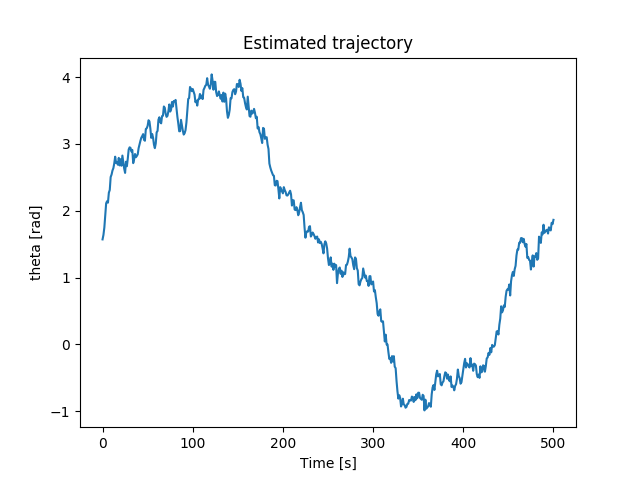
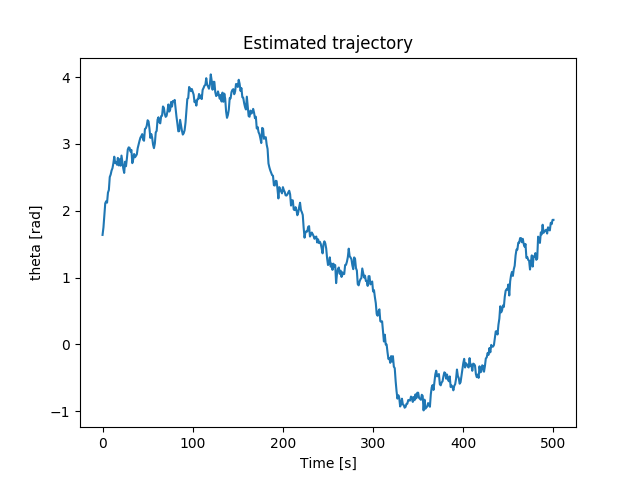
Clean up and plot variances
Clean up the prediction steps, and added plotting of the variances to
see how the filter is doing after measurement updates

diff --git a/course2_state_estimation/week2_assignment/week2_assignment.py b/course2_state_estimation/week2_assignment/week2_assignment.py
@@ -10,6 +10,11 @@ def wraptopi(x):
         x = x + (np.floor(x / (-2 * np.pi)) + 1) * 2 * np.pi
     return x
 
+# lk = landmark x,y
+# rk = range measurements
+# bk = bearing to each landmark
+#
+#
 def measurement_update(lk, rk, bk, P_check, x_check):
     
     # 1. Compute measurement Jacobian
@@ -65,30 +70,33 @@ for k in range(1, len(t)):  # start at 1 because we've set the initial predicito
     # 1. Update state with odometry readings (remember to wrap the angles to [-pi,pi])
     # This is the state vector at the previous step
     x_check = x_est[k - 1].reshape(3, 1)
-    # Propogate the state forward to the current step, first build the motion
-    # model matrix, phi.
-    # x_check[2] is our best estimate of theta, or theta at (k - 1)
-    phi = np.array([
-        [cos(x_check[2]) * delta_t, 0],
-        [sin(x_check[2]) * delta_t, 0],
-        [0, delta_t]])
-    # According to the equations provided we need to use v_k and w_k, NOT
-    # k-1
-    odom = np.array([v[k], om[k]])
-    x_check = x_check + phi @ odom.reshape(2, 1)
-    x_check[2] = wraptopi(x_check[2])
+    # Break out theta before update since its used in several spots
+    theta = x_check[2]
+    sin_theta_delta_t = sin(theta) * delta_t
+    cos_theta_delta_t = cos(theta) * delta_t
+    # Propogate the state forward to the current step
+    x_check[0] += cos_theta_delta_t * v[k]
+    x_check[1] += sin_theta_delta_t * v[k]
+    x_check[2] += delta_t * om[k]
+    #x_check[2] = wraptopi(x_check[2])
     
     # 2. Motion model jacobian with respect to last state
-    F_km = np.zeros([3, 3])
+    F_km = np.array([
+        [1.0, 0.0, -sin_theta_delta_t * v[k]],
+        [0.0, 1.0, cos_theta_delta_t * v[k]],
+        [0.0, 0.0, 1.0]])
 
     # 3. Motion model jacobian with respect to noise
-    L_km = np.zeros([3, 2])
-
+    L_km = np.array([
+        [cos_theta_delta_t, 0.0],
+        [sin_theta_delta_t, 0.0],
+        [0.0, 1.0]])
     # 4. Propagate uncertainty
+    P_check = F_km @ P_check @ F_km.T + L_km @ Q_km @ L_km.T
 
     # 5. Update state estimate using available landmark measurements
-    # for i in range(len(r[k])):
-    #     x_check, P_check = measurement_update(l[i], r[k, i], b[k, i], P_check, x_check)
+    for i in range(len(r[k])):
+        x_check, P_check = measurement_update(l[i], r[k, i], b[k, i], P_check, x_check)
 
     # Set final state predictions for timestep
     x_est[k, 0] = x_check[0]
@@ -104,7 +112,7 @@ plt.plot(x_est[-1, 0], x_est[-1, 1], 'r^')
 ax.set_xlabel('x [m]')
 ax.set_ylabel('y [m]')
 ax.set_title('Estimated trajectory')
-plt.savefig('images/week2_trajectory_xy_no_update_step1.png', dpt=300)
+plt.savefig('images/week2_trajectory_xy_no_update_step.png', dpt=300)
 plt.show()
 
 e_fig = plt.figure()
@@ -113,7 +121,28 @@ ax.plot(t[:], x_est[:, 2])
 ax.set_xlabel('Time [s]')
 ax.set_ylabel('theta [rad]')
 ax.set_title('Estimated trajectory')
-plt.savefig('images/week2_trajectory_time_no_update_step1.png', dpt=300)
+plt.savefig('images/week2_trajectory_time_no_update_step.png', dpt=300)
+plt.show()
+
+
+std_x = np.zeros((len(t), 1))
+std_y = np.zeros((len(t), 1))
+std_theta = np.zeros((len(t), 1))
+for i in range(len(t)):
+    std_x[i] = sqrt(P_est[i, 0, 0])
+    std_y[i] = sqrt(P_est[i, 1, 1])
+    std_theta[i] = sqrt(P_est[i, 2, 2])
+
+e_fig = plt.figure()
+ax = e_fig.add_subplot(111)
+ax.plot(t[:], (std_x[:]), label='Sigma X')
+ax.plot(t[:], (std_y[:]), label='Sigma Y')
+ax.plot(t[:], (std_theta[:]), label='Sigma Theta')
+ax.set_xlabel('Time [s]')
+ax.set_ylabel('theta [rad]')
+ax.set_title('Estimated trajectory')
+ax.legend()
+plt.savefig('images/week2_uncertainity_no_update_step.png', dpt=300)
 plt.show()
 
 with open('submission.pkl', 'wb') as f:
